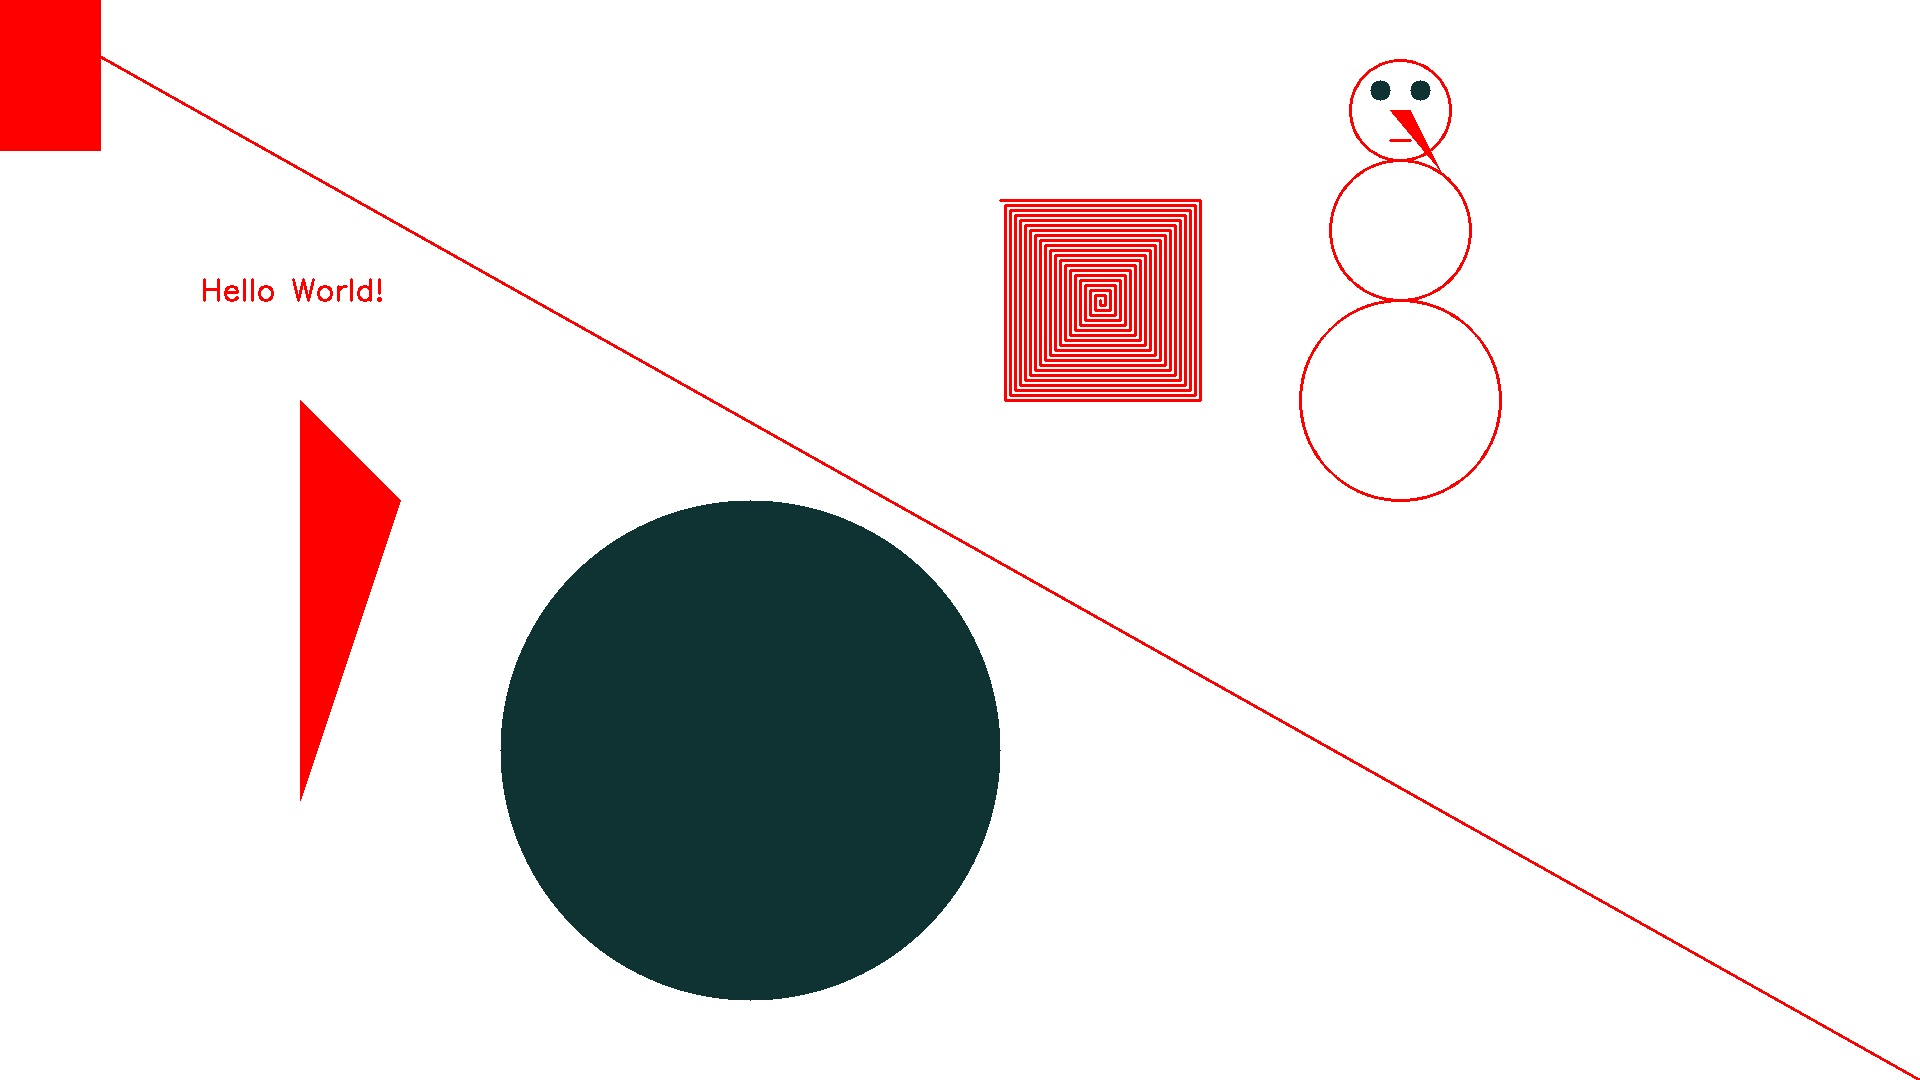
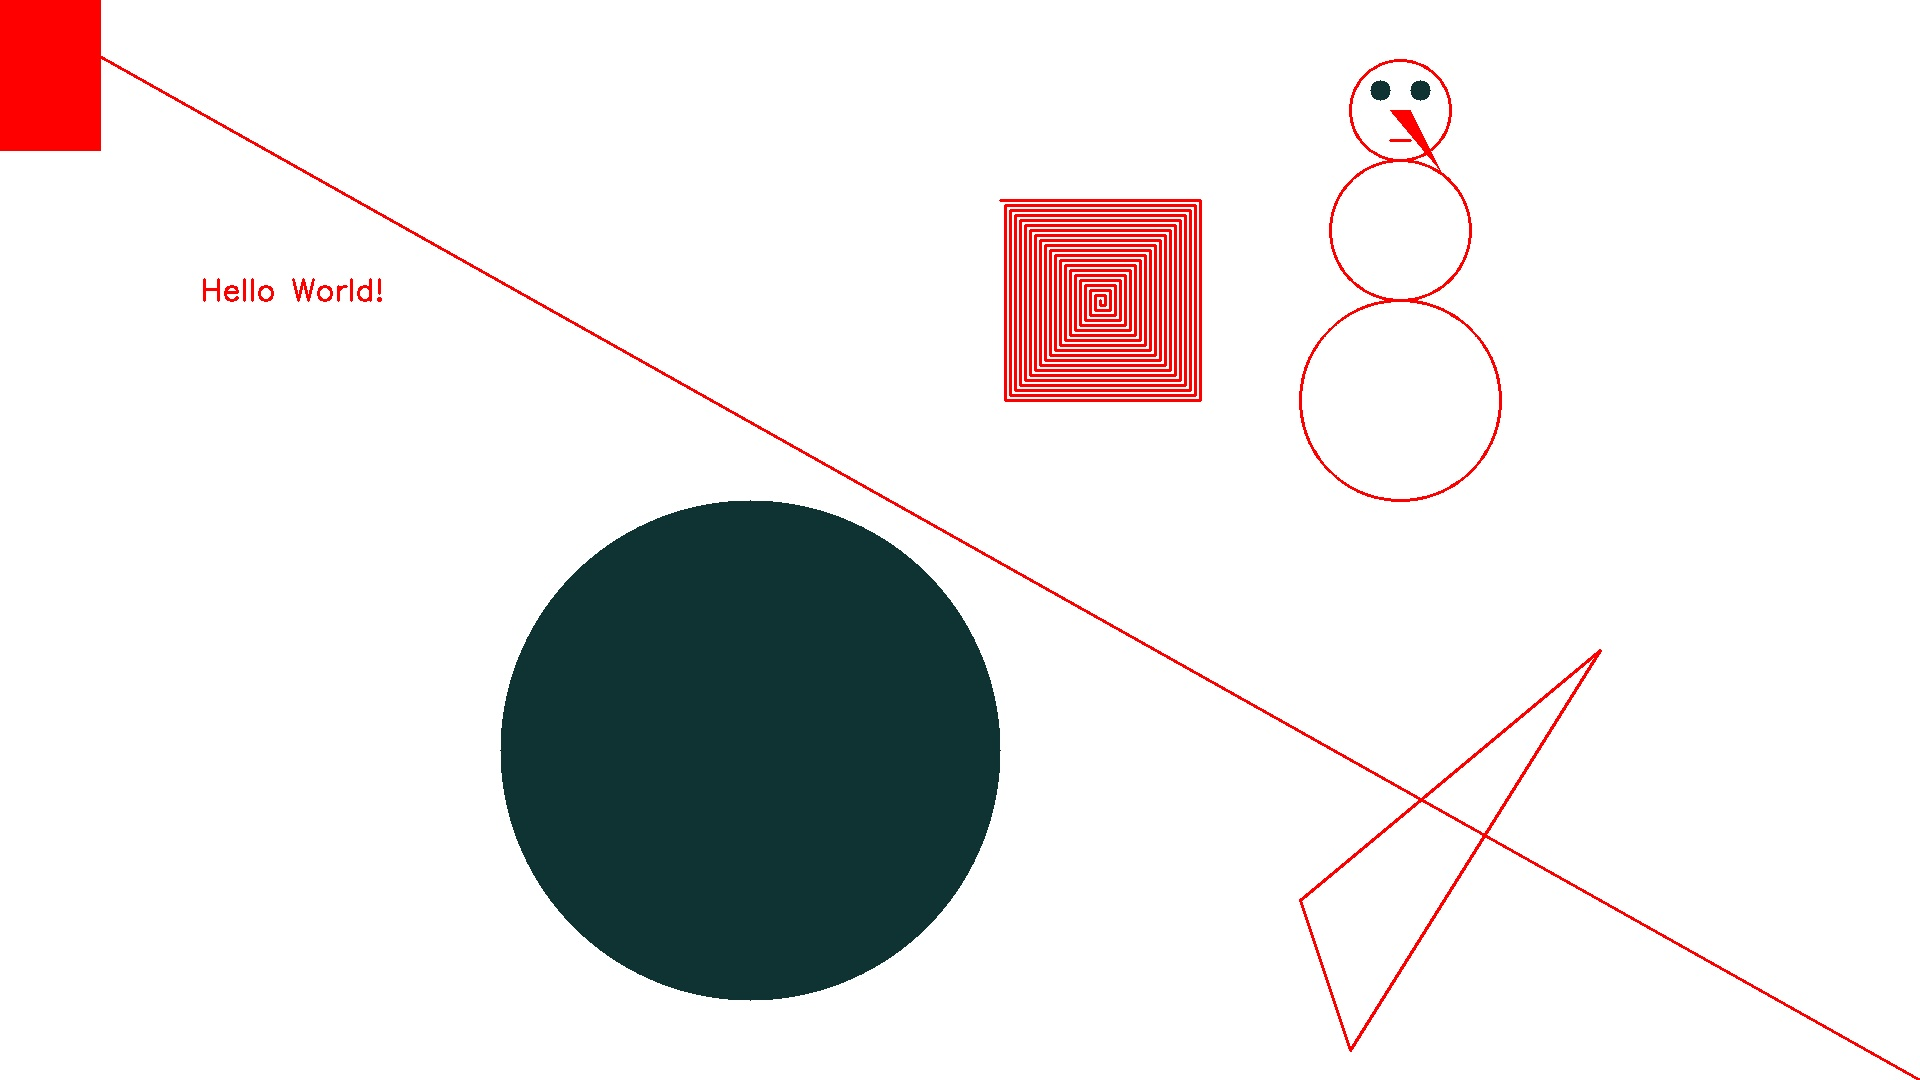
lab9 - exercise 2

diff --git a/Lab9/src/Scene.java b/Lab9/src/Scene.java
@@ -7,7 +7,7 @@ import org.opencv.imgcodecs.Imgcodecs;
 import java.util.ArrayList;
 import java.util.List;
 
-public class Scene {
+public class Scene implements SingleTriangle {
     private final List<Item> items;
 
     public Scene() {
@@ -16,6 +16,7 @@ public class Scene {
 
     public void addItem(Item item) {
         items.add(item);
+        removeDuplicatedTriangles(items);
     }
 
     public void draw() {

diff --git a/Lab9/src/SingleTriangle.java b/Lab9/src/SingleTriangle.java
@@ -1,0 +1,15 @@
+import java.util.List;
+
+public interface SingleTriangle {
+    default void removeDuplicatedTriangles(List<Item> items) {
+        Item item = null;
+        int counter = 0;
+
+        for (Item it : items)
+            if (it instanceof Triangle && counter++ < 1)
+                item = it;
+
+        if (counter > 1)
+            items.remove(item);
+    }
+}

diff --git a/Lab9/src/Main.java b/Lab9/src/Main.java
@@ -41,6 +41,10 @@ public class Main {
         scene.addItem(snowman);
         scene.addItem(spiral);
 
+        Triangle triangleReplacement = new Triangle(new MyPoint(1200, 600), new MyPoint(100, 300), new MyPoint(150, 450), new MyPoint(400, 50), false);
+
+        scene.addItem(triangleReplacement);
+
         scene.draw();
     }
 }
